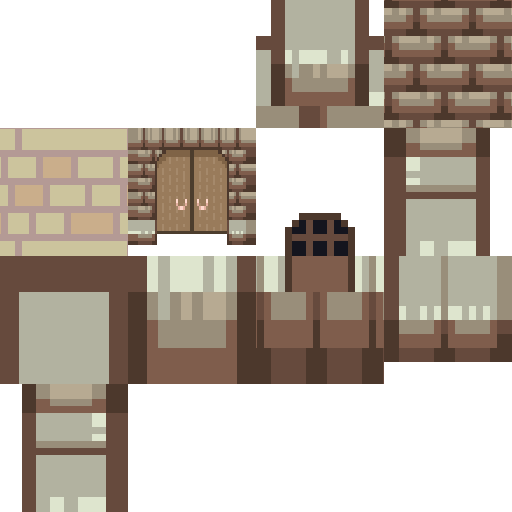
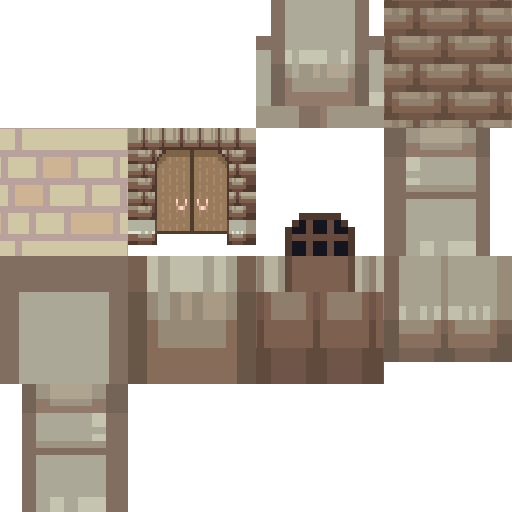
Soften castle masonry and shade the lower half of each wall

diff --git a/src/fdr_castle_geometry.js b/src/fdr_castle_geometry.js
@@ -1,17 +1,27 @@
 // Textured castle prisms on the shared retained WallPerspective renderer.
 // The atlas is prebuilt and preloaded: cell rebuilds never read/create textures.
 (function(global){
-  const ATLAS_KEY='fdr_castle_atlas';
+  const ATLAS_KEY='fdr_castle_atlas',LOWER_SHADE=0.78;
   // Clip the UV domain at repeats; all inserted vertices remain on the original plane.
   function clip(poly, axis, boundary, greater) {
     const out = [];
     for (let i=0;i<poly.length;i++) {
       const a=poly[i],b=poly[(i+1)%poly.length], ai=greater?a[axis]>=boundary:a[axis]<=boundary,bi=greater?b[axis]>=boundary:b[axis]<=boundary;
       if(ai)out.push(a);
-      if(ai!==bi){const t=(boundary-a[axis])/(b[axis]-a[axis]),p={};for(const k of ['x','y','z','s','t'])p[k]=a[k]+(b[k]-a[k])*t;out.push(p);}
+      if(ai!==bi){const t=(boundary-a[axis])/(b[axis]-a[axis]),p={};for(const k of ['x','y','z','s','t'])p[k]=a[k]+(b[k]-a[k])*t;p[axis]=boundary;out.push(p);}
     }return out;
   }
-  function surface(faces, poly, slot, normal) {
+  function surface(faces, poly, slot, normal, shadeAt=null) {
+    // One discontinuity in world elevation per structure, independent of its
+    // body/base/coping prisms and of camera heading. UV interpolation keeps
+    // the brick repeat continuous through the shade boundary.
+    const minZ=Math.min(...poly.map(p=>p.z)),maxZ=Math.max(...poly.map(p=>p.z));
+    if(normal&&shadeAt!=null&&minZ<shadeAt&&maxZ>shadeAt){
+      surface(faces,clip(poly,'z',shadeAt,false),slot,normal,shadeAt);
+      surface(faces,clip(poly,'z',shadeAt,true),slot,normal);
+      return;
+    }
+    const shade=normal&&shadeAt!=null&&maxZ<=shadeAt?LOWER_SHADE:1;
     const minS=Math.floor(Math.min(...poly.map(p=>p.s))),maxS=Math.ceil(Math.max(...poly.map(p=>p.s)));
     const minT=Math.floor(Math.min(...poly.map(p=>p.t))),maxT=Math.ceil(Math.max(...poly.map(p=>p.t)));
     for(let s=minS;s<maxS;s++)for(let t=minT;t<maxT;t++){
@@ -22,11 +32,11 @@
         // UV clipping can repeat a vertex at a tile boundary. Those triangles
         // have no area and add no pixels; discard them once at build time.
         if(Math.hypot(uy*vz-uz*vy,uz*vx-ux*vz,ux*vy-uy*vx)<1e-8)continue;
-        faces.push({points:[a,b,c],normal,color:0xffffff,flatColor:0xaaa694});
+        faces.push({points:[a,b,c],normal,shade,color:0xffffff,flatColor:0xaaa694});
       }
     }
   }
-  function prismFaces(points,bottom,top,capped,side=3,cap=2,omitEdges=[],uvOrigin=null){
+  function prismFaces(points,bottom,top,capped,side=3,cap=2,omitEdges=[],uvOrigin=null,shadeAt=null){
     const faces=[];
     const area=points.reduce((sum,a,i)=>{const b=points[(i+1)%points.length];return sum+a.x*b.y-b.x*a.y},0),w=Math.sign(area);
     const origin={x:Math.min(...points.map(p=>p.x)),y:Math.min(...points.map(p=>p.y)),z:0,...uvOrigin};
@@ -40,7 +50,7 @@
         s:(side===3||side===11)?(Math.abs(dx)>=Math.abs(dy)?p.x-origin.x:p.y-origin.y)/repeat:
           (side===9||side===8||side===2&&l<=16)?(Math.abs(dx)>=Math.abs(dy)?(p.x-Math.min(a.x,b.x))/Math.abs(dx):(p.y-Math.min(a.y,b.y))/Math.abs(dy)):((p.x-origin.x)*dx/l+(p.y-origin.y)*dy/l)/repeat,
         t:[2,8,9,10,11].includes(side)?(top-z)/(top-bottom):((origin.z||0)-z)/16});
-      surface(faces,[uv(a,bottom),uv(b,bottom),uv(b,top),uv(a,top)],side,{x:dy/l*w,y:-dx/l*w});
+      surface(faces,[uv(a,bottom),uv(b,bottom),uv(b,top),uv(a,top)],side,{x:dy/l*w,y:-dx/l*w},shadeAt);
     }
     const minX=Math.min(...points.map(p=>p.x)),minY=Math.min(...points.map(p=>p.y)),wX=Math.max(...points.map(p=>p.x))-minX,wY=Math.max(...points.map(p=>p.y))-minY,normalizedCap=cap===8&&!uvOrigin?.repeatCap,stone=normalizedCap||(cap===2&&wX<=16&&wY<=16);
     const capRepeat=Math.max(16,wX/32,wY/32);
@@ -62,13 +72,17 @@
     const atlas=scene.textures.get(ATLAS_KEY);atlas.setFilter?.(global.Phaser?.Textures?.FilterMode?.NEAREST ?? 1);group.atlas=atlas;
     const tint=tintFor(options),broken=CastleStyles.get(options.family||'citadel',true).rampart.broken,start=group.blocks.length;
     const rect=FDRCastleLayout.rect,colors={face:0xa99e8b,top:0xc6baa4,dark:0x615b50};
-    function prism(ring,bottom,top,side=3,cap=2,support=null,capped=true,omitEdges=[],uvOrigin=null){
+    function paint(faces){
+      for(const face of faces){let color=0;for(const shift of [16,8,0])color|=Math.round(((tint>>shift)&255)*(face.shade??1))<<shift;face.color=color;}
+      return faces;
+    }
+    function prism(ring,bottom,top,side=3,cap=2,support=null,capped=true,omitEdges=[],uvOrigin=null,shadeAt=null){
       if(!WallPerspective.inView(scene,ring,bottom,top))return null;
-      const faces=prismFaces(ring,bottom,top,capped,side,cap,omitEdges,uvOrigin);for(const face of faces)face.color=tint;
+      const faces=paint(prismFaces(ring,bottom,top,capped,side,cap,omitEdges,uvOrigin,shadeAt));
       WallPerspective.prism(scene,source,ring,bottom,top,colors,support,capped,{materialFaces:faces});
       return group.blocks[group.blocks.length-1];
     }
-    const origin={x:layout.points[0].x,y:layout.points[0].y,z:24};
+    const curtainHeight=24,origin={x:layout.points[0].x,y:layout.points[0].y,z:curtainHeight};
     // Keep a curtain's clipped body pieces below all of its crowns. Sorting
     // each fragment/tooth by its own centre lets a later cap erase the tooth
     // beside it, especially when the wall points toward the camera.
@@ -78,19 +92,19 @@
     });
     for(const wall of layout.walls){
       const ring=wall.points,support=supports[wall.edge];
-      prism(ring,0,22,3,10,support,false,wall.omitEdges,origin);
-      prism(ring,22,24,10,8,support,true,wall.omitEdges,{repeatCap:true});
+      prism(ring,0,curtainHeight-2,3,10,support,false,wall.omitEdges,origin,curtainHeight/2);
+      prism(ring,curtainHeight-2,curtainHeight,10,8,support,true,wall.omitEdges,{repeatCap:true});
     }
-    for(let i=0;i<layout.merlons.length;i++){if(broken&&i%4===2)continue;const m=layout.merlons[i];prism(m.points,24,32,9,8,supports[m.edge]);}
+    for(let i=0;i<layout.merlons.length;i++){if(broken&&i%4===2)continue;const m=layout.merlons[i];prism(m.points,m.base,m.top,9,8,supports[m.edge]);}
     function mass(part,isKeep){
       const {x,y,width:w,depth:h,height}=part,support={x,y,order:group.blocks.length},body=rect(x,y,w,h);
       if(!WallPerspective.inView(scene,body,0,height+4))return;
-      prism(body,0,8,11,10,support,false);
-      const shaft=prism(body,8,height-2,3,10,support,false);
+      prism(body,0,8,11,10,support,false,[],null,height/2);
+      const shaft=prism(body,8,height-2,3,10,support,false,[],null,height/2);
       const roof=prism(body,height-2,height,3,4,support);
       if(roof)for(const side of [-1,1]){
         const faces=[...prismFaces(rect(x+side*(w/2-4),y,8,h),height,height,true,10,side>0?12:7),...prismFaces(rect(x,y+side*(h/2-4),w-16,8),height,height,true,10,10)];
-        for(const face of faces)face.color=tint;roof.materialFaces.push(...faces);
+        roof.materialFaces.push(...paint(faces));
       }
       for(const row of [-h/2+4,h/2-6])for(let j=0;j<w/16;j++){
         if(broken&&j%4===2)continue;
@@ -98,8 +112,8 @@
       }
       if(isKeep&&shaft){
         const faces=[],width=Math.min(48,w-8),front=y+h/2+.04;
-        surface(faces,[{x:x-width/2,y:front,z:0,s:0,t:1},{x:x+width/2,y:front,z:0,s:1,t:1},{x:x+width/2,y:front,z:32,s:1,t:0},{x:x-width/2,y:front,z:32,s:0,t:0}],5,{x:0,y:1});
-        for(const face of faces)face.color=tint;shaft.materialFaces.push(...faces);
+        surface(faces,[{x:x-width/2,y:front,z:0,s:0,t:1},{x:x+width/2,y:front,z:0,s:1,t:1},{x:x+width/2,y:front,z:32,s:1,t:0},{x:x-width/2,y:front,z:32,s:0,t:0}],5,{x:0,y:1},height/2);
+        shaft.materialFaces.push(...paint(faces));
       }
     }
     for(const tower of layout.towers)mass(tower,false);if(layout.keep)mass(layout.keep,true);

diff --git a/test/node/fdr_castles.test.js b/test/node/fdr_castles.test.js
@@ -99,6 +99,45 @@
       }
     }
   });
+  test('FDR castles: a single halfway shade band follows each full wall height without UV seams', () => {
+    const gfx={clear(){},fillStyle(){},fillTriangle(){}};
+    for(const active of [true,false]) {
+      const scene={_headingUp:true,depth:0,mapRot:0,buildingWallContainer:{add(){}},
+        add:{graphics:()=>gfx},textures:{exists:()=>true,get:()=>({})}};
+      const group=WallPerspective.begin(scene,'castles');
+      FDRCastleGeometry.draw(scene,'castles',L.rect(0,0,240,180),{family:'citadel',active});
+      // Curtain body, tower shaft, keep shaft: the surrounding base and roof
+      // prisms must not introduce separate halfway bands.
+      for(const [bottom,top,half] of [[0,22,12],[8,30,16],[8,46,24]]) {
+        const blocks=group.blocks.filter(b=>b.bottom===bottom&&b.top===top);
+        assert.gt(blocks.length,0,'representative wall structure is present');
+        for(const block of blocks) {
+          const sides=block.materialFaces.filter(f=>f.normal),lower=[],upper=[];
+          for(const face of sides) {
+            const zs=face.points.map(p=>p.z),lo=Math.min(...zs),hi=Math.max(...zs);
+            assert.falsy(lo<half-1e-7&&hi>half+1e-7,'no triangle interpolates across the discrete shade step');
+            (hi<=half+1e-7?lower:upper).push(face);
+          }
+          assert.gt(lower.length,0);assert.gt(upper.length,0);
+          const lit=upper[0].color,dark=lower[0].color;
+          assert.truthy(lower.every(f=>f.color===dark)&&upper.every(f=>f.color===lit),'each elevation band has one uniform tint');
+          assert.lt(dark,lit,'lower half stays darker in both claim states');
+          const boundary=faces=>faces.flatMap(f=>f.points).filter(p=>Math.abs(p.z-half)<1e-7);
+          const below=boundary(lower),above=boundary(upper);
+          const sameRepeat=(a,b)=>Math.abs(a-b)<1e-7||Math.abs(Math.abs(a-b)-112/512)<1e-7;
+          assert.gt(below.length,0);
+          for(const a of below)assert.truthy(above.some(b=>Math.hypot(a.x-b.x,a.y-b.y)<1e-7&&sameRepeat(a.u,b.u)&&sameRepeat(a.v,b.v)),'both bands meet at the same UV phase, including native tile wraps');
+        }
+      }
+      for(const block of group.blocks.filter(b=>b.bottom===0&&b.top===8))
+        assert.truthy(block.materialFaces.every(f=>f.color<0xffffff),'tower/keep bases inherit their full wall lower shade');
+      const colors=group.blocks.flatMap(b=>b.materialFaces.map(f=>f.color)).join(',');
+      for(const angle of [0,.7,Math.PI/2,Math.PI,Math.PI*1.5]) {
+        scene.mapRot=angle;WallPerspective.update(scene);
+        assert.eq(group.blocks.flatMap(b=>b.materialFaces.map(f=>f.color)).sort().join(','),colors.split(',').map(Number).sort().join(','),'heading changes visibility without moving the shade band');
+      }
+    }
+  });
   test('FDR castles: culled masses never append decals to absent geometry', () => {
     const old=WallPerspective.inView;
     WallPerspective.inView=()=>false;

diff --git a/sw.js b/sw.js
@@ -1,7 +1,7 @@
 // Content-addressed resources survive deployments. HTML stays network-first;
 // tiles retain their independent offline cache. Keep two shell generations so
 // old tabs can still request their exact script URLs after a worker update.
-const SHELL_VERSION = 'shell-cc3afc4c';
+const SHELL_VERSION = 'shell-ac771c79';
 
 const RESOURCE_CACHE = 'terracart-resources-v1';
 const RESOURCE_MANIFEST = './__terracart_resource_manifest__';
@@ -667,7 +667,7 @@ const ASSET_HASHES = {
   "assets/Objects/BuildingMaterials/source/painterly-tileset-v1.png": "528ca2a1",
   "assets/Objects/BuildingMaterials/source/pixel-tileset-v3.png": "d3d5415a",
   "assets/Objects/BuildingMaterials/wreck-floor-cel.png": "8a303ad2",
-  "assets/Objects/Castle/FDR/atlas.png": "1b3a670d",
+  "assets/Objects/Castle/FDR/atlas.png": "6050c667",
   "assets/Objects/Castle/FDR/floor.png": "3c5de081",
   "assets/Objects/Castle/tower_master.png": "195b2576",
   "assets/Objects/Castle/tower_ruin_master.png": "42d55bee",

diff --git a/index.html b/index.html
@@ -3264,7 +3264,7 @@
   <script src="src/authored_building_renderer.js?v=8da48b5e"></script>
   <script src="src/building_lowpoly.js?v=1997605f"></script>
   <script src="src/fdr_castle_layout.js?v=39a4988f"></script>
-  <script src="src/fdr_castle_geometry.js?v=d4e00497"></script>
+  <script src="src/fdr_castle_geometry.js?v=166dd87d"></script>
   <script src="src/fdr_castle_canvas.js?v=61b2dd7d"></script>
   <script src="src/building_overlay.js?v=86249e3e"></script>
   <script src="src/art_atlas.js?v=bcd97f7b"></script>

diff --git a/tools/build_fdr_castle_assets.py b/tools/build_fdr_castle_assets.py
@@ -1,5 +1,5 @@
 #!/usr/bin/env python3
-"""Export the approved warm FDR castle textures without generated imagery."""
+"""Export subdued FDR castle masonry from the approved native source crops."""
 import argparse
 import hashlib
 import json
@@ -56,6 +56,27 @@ def padded(tile, wrap_x, wrap_y):
     return result
 
 
+
+# Only the castle atlas is treated; the separately exported ground paving keeps
+# its native pixels. Compression preserves average stone colour and pixel detail.
+MASONRY_SLOTS = {2, 3, 7, 8, 9, 10, 11, 12}
+SKY_SLOTS = {2, 4, 7, 8, 12}
+CONTRAST, SKY_LIFT = 0.60, 0.07
+
+
+def treatment(tile, slot):
+    contrast = CONTRAST if slot in MASONRY_SLOTS else 1
+    lift = SKY_LIFT if slot in SKY_SLOTS else 0
+    pixels = list(tile.getdata())
+    opaque = [p for p in pixels if p[3]]
+    average = [sum(p[i] for p in opaque) / len(opaque) for i in range(3)]
+    result = Image.new('RGBA', tile.size)
+    result.putdata([tuple(round((average[i] + (p[i] - average[i]) * contrast) * (1 - lift)
+                              + 255 * lift) for i in range(3)) + (p[3],) if p[3] else p
+                    for p in pixels])
+    return result, dict(contrast=contrast, skyLift=lift)
+
+
 def build(out):
     out.mkdir(parents=True, exist_ok=True)
     source = Image.open(SOURCE).convert('RGBA')
@@ -67,7 +88,8 @@ def build(out):
         native = (floor_source if name == 'floor' else source).crop((x, y, x + w, y + h))
         if name == 'floor':
             native.save(out / 'floor.png')
-        tile = native.resize(normalized, Image.Resampling.NEAREST) if normalized else native
+        tile, paint = treatment(native, slot)
+        tile = tile.resize(normalized, Image.Resampling.NEAREST) if normalized else tile
         wrap_x, wrap_y = slot in (3, 4, 10), slot in (3, 4)
         ox, oy = slot % 4 * SLOT, slot // 4 * SLOT
         atlas.paste(padded(tile, wrap_x, wrap_y), (ox, oy))
@@ -75,7 +97,7 @@ def build(out):
                          sourceRect=list(rect), normalizedSize=list(tile.size),
                          atlasContentRect=[ox + PAD, oy + PAD, CONTENT, CONTENT],
                          gutterX='wrap' if wrap_x else 'clamp', gutterY='wrap' if wrap_y else 'clamp',
-                         alphaRange=list(native.getchannel('A').getextrema())))
+                         alphaRange=list(native.getchannel('A').getextrema()), treatment=paint))
     # Shared retained renderer samples its untextured triangles at (500, 500).
     atlas.paste((255, 255, 255, 255), (496, 496, 504, 504))
     atlas.save(out / 'atlas.png')
@@ -86,8 +108,8 @@ def build(out):
                            license='extra_assets/16x16/Fantasy Dreamland World/License.txt'),
             'floor': dict(path=str(FLOOR_SOURCE.relative_to(ROOT)), sha256=digest(FLOOR_SOURCE)),
         },
-        processing='Source crops, nearest-neighbour scaling and padded atlas packing only; no generated imagery or recoloring.',
-        palette='Warm native palette; condition tint is applied by the renderer.',
+        processing='Source crops with mean-preserving masonry contrast compression, a modest sky-facing material lift, nearest-neighbour scaling and padded atlas packing; no generated imagery.',
+        palette='Warm source-derived palette; the renderer applies condition tint and one lower-half wall shade band.',
         atlas=dict(size=[SIZE, SIZE], slotSize=SLOT, padding=PAD, contentSize=CONTENT,
                    whitePatch=[496, 496, 8, 8], unusedSlots='Transparent'),
         materials=rows,

diff --git a/test/fdr_castle_assets_test.py b/test/fdr_castle_assets_test.py
@@ -1,0 +1,36 @@
+"""Material transforms are independent of source pack availability."""
+import sys
+import unittest
+from pathlib import Path
+from PIL import Image
+
+sys.path.insert(0, str(Path(__file__).resolve().parents[1] / 'tools'))
+from build_fdr_castle_assets import treatment
+
+
+class CastleMaterials(unittest.TestCase):
+    def setUp(self):
+        self.tile = Image.new('RGBA', (3, 1))
+        self.tile.putdata([(40, 60, 80, 255), (200, 180, 160, 255), (9, 8, 7, 0)])
+
+    def test_masonry_keeps_mean_colour_and_alpha_with_less_contrast(self):
+        pixels = list(treatment(self.tile, 3)[0].getdata())
+        for channel in range(3):
+            self.assertEqual((pixels[0][channel] + pixels[1][channel]) / 2, 120)
+            self.assertLess(abs(pixels[1][channel] - pixels[0][channel]),
+                            abs(list(self.tile.getdata())[1][channel] - list(self.tile.getdata())[0][channel]))
+        self.assertEqual([p[3] for p in pixels], [255, 255, 0])
+        self.assertEqual(pixels[2], (9, 8, 7, 0))
+
+    def test_sky_materials_are_lighter_than_the_same_stone_side(self):
+        top = list(treatment(self.tile, 8)[0].getdata())
+        side = list(treatment(self.tile, 9)[0].getdata())
+        for a, b in zip(top[:2], side[:2]):
+            self.assertTrue(all(a[i] > b[i] for i in range(3)))
+
+    def test_decals_are_unchanged(self):
+        self.assertEqual(treatment(self.tile, 5)[0].tobytes(), self.tile.tobytes())
+
+
+if __name__ == '__main__':
+    unittest.main()

diff --git a/docs/design/rendering.md b/docs/design/rendering.md
@@ -1263,7 +1263,15 @@ coordinates; invalid or excessively complex rings retain the existing fallback.
 claim rebuilds and building hit metadata. The ground canvas repeats native Fantasy
 City paving. The shared preloaded FDR atlas is generated by
 `tools/build_fdr_castle_assets.py`; its adjacent manifest records source crops and
-hashes. Unclaimed masonry uses the existing castle palette treatment. Canvas
+hashes. Castle masonry keeps its source pixel detail with compressed contrast
+around each crop's average colour; sky-facing coping, crown and roof materials
+receive a modest light lift. The separate ground paving export stays native.
+Vertical faces have one discrete darker lower half, measured from ground to the
+full curtain, tower or keep wall height. Triangle splits preserve the material
+UVs at that elevation; base, shaft and coping layers do not start their own
+shade bands. Door decals follow the same structure's halfway line. This shading
+stays fixed in world elevation through camera rotation. Unclaimed masonry
+combines it with the existing castle palette treatment. Canvas
 closes paired opaque triangle seams within exact surface boundaries; transparent
 coping, doors and base art keep exact clips. Camera movement and rotation reuse
 geometry and materials rather than baking textures.

diff --git a/test/node/README.md b/test/node/README.md
@@ -101,6 +101,12 @@ plus pan/zoom. It checks perimeter coverage, screen-vertical height and retained
 geometry, and captures screenshots for corner and occlusion review. It also
 checks the baked tower-base alpha for every material in both restoration states.
 
+Castle atlas treatment has a small source-pack-independent test:
+`python3 test/fdr_castle_assets_test.py`. It checks reduced masonry contrast,
+retained mean colour and alpha, brighter top materials, and unchanged decals.
+`fdr_castles.test.js` checks one discrete mid-height shade per full structure,
+continuous UV phase through that boundary, and stable tint under rotation.
+
 ## GPU lighting prototype
 
 `gpu_lighting.test.js` checks backend selection, cached texture revisions and
